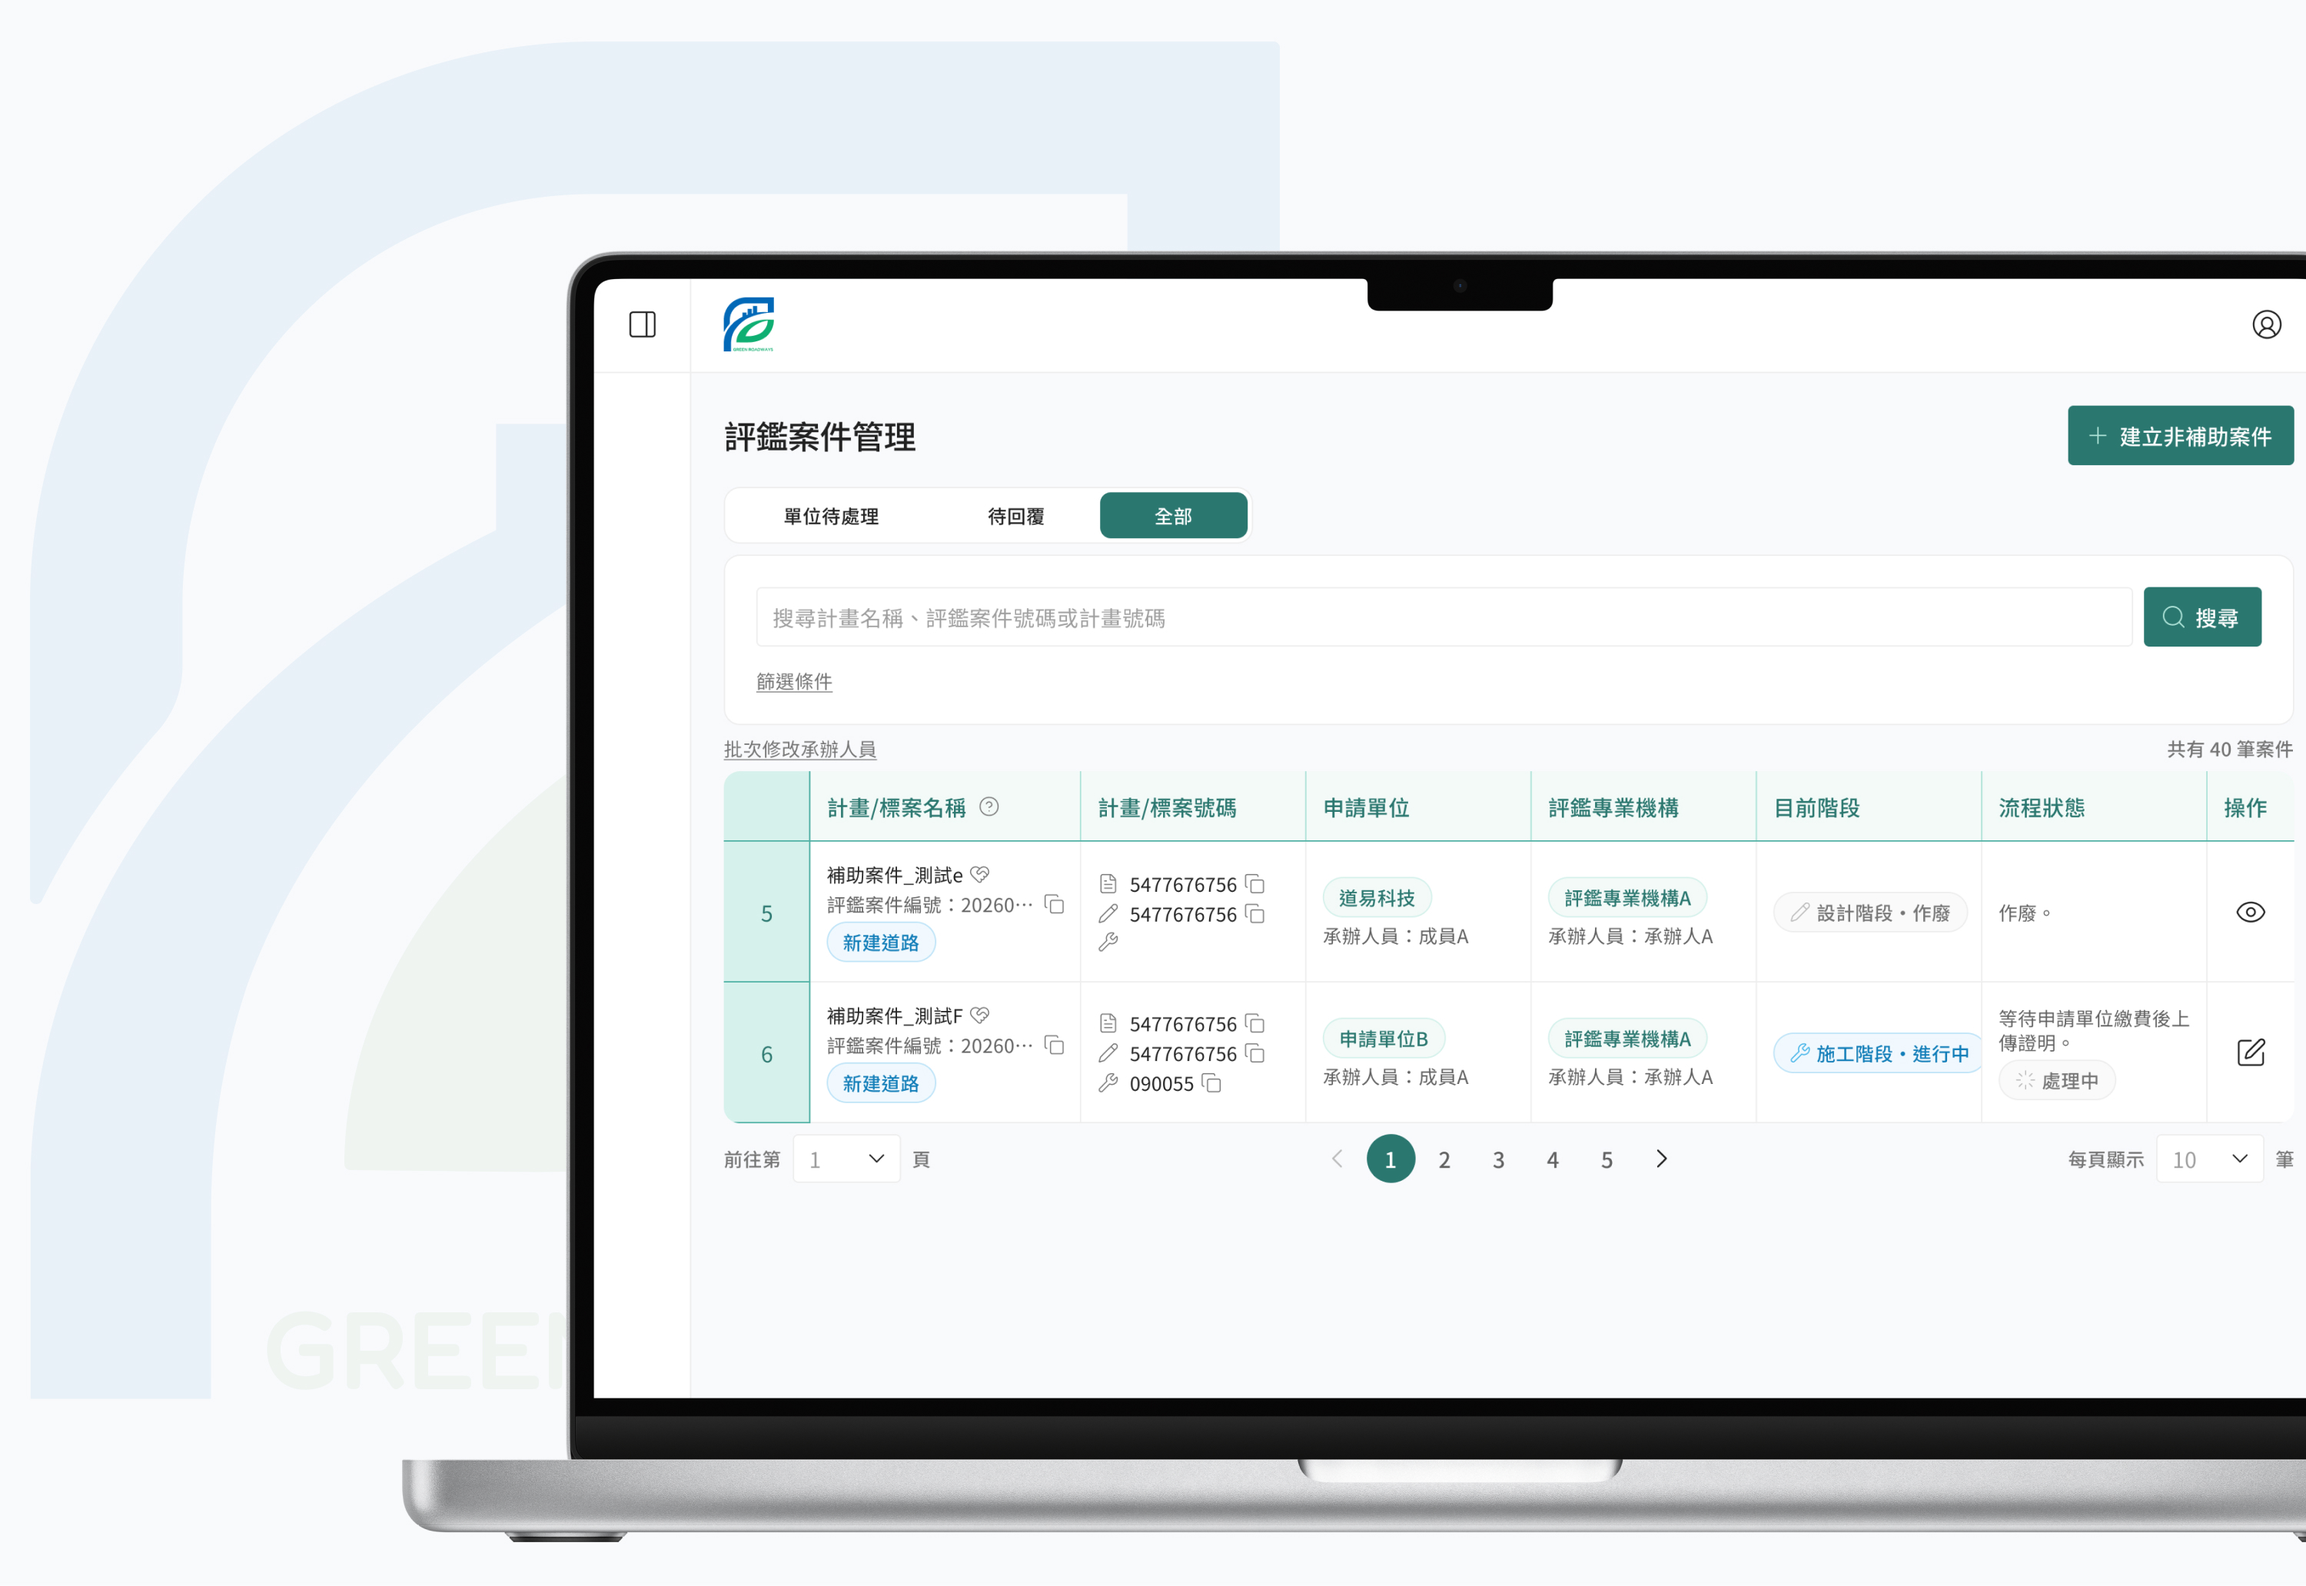
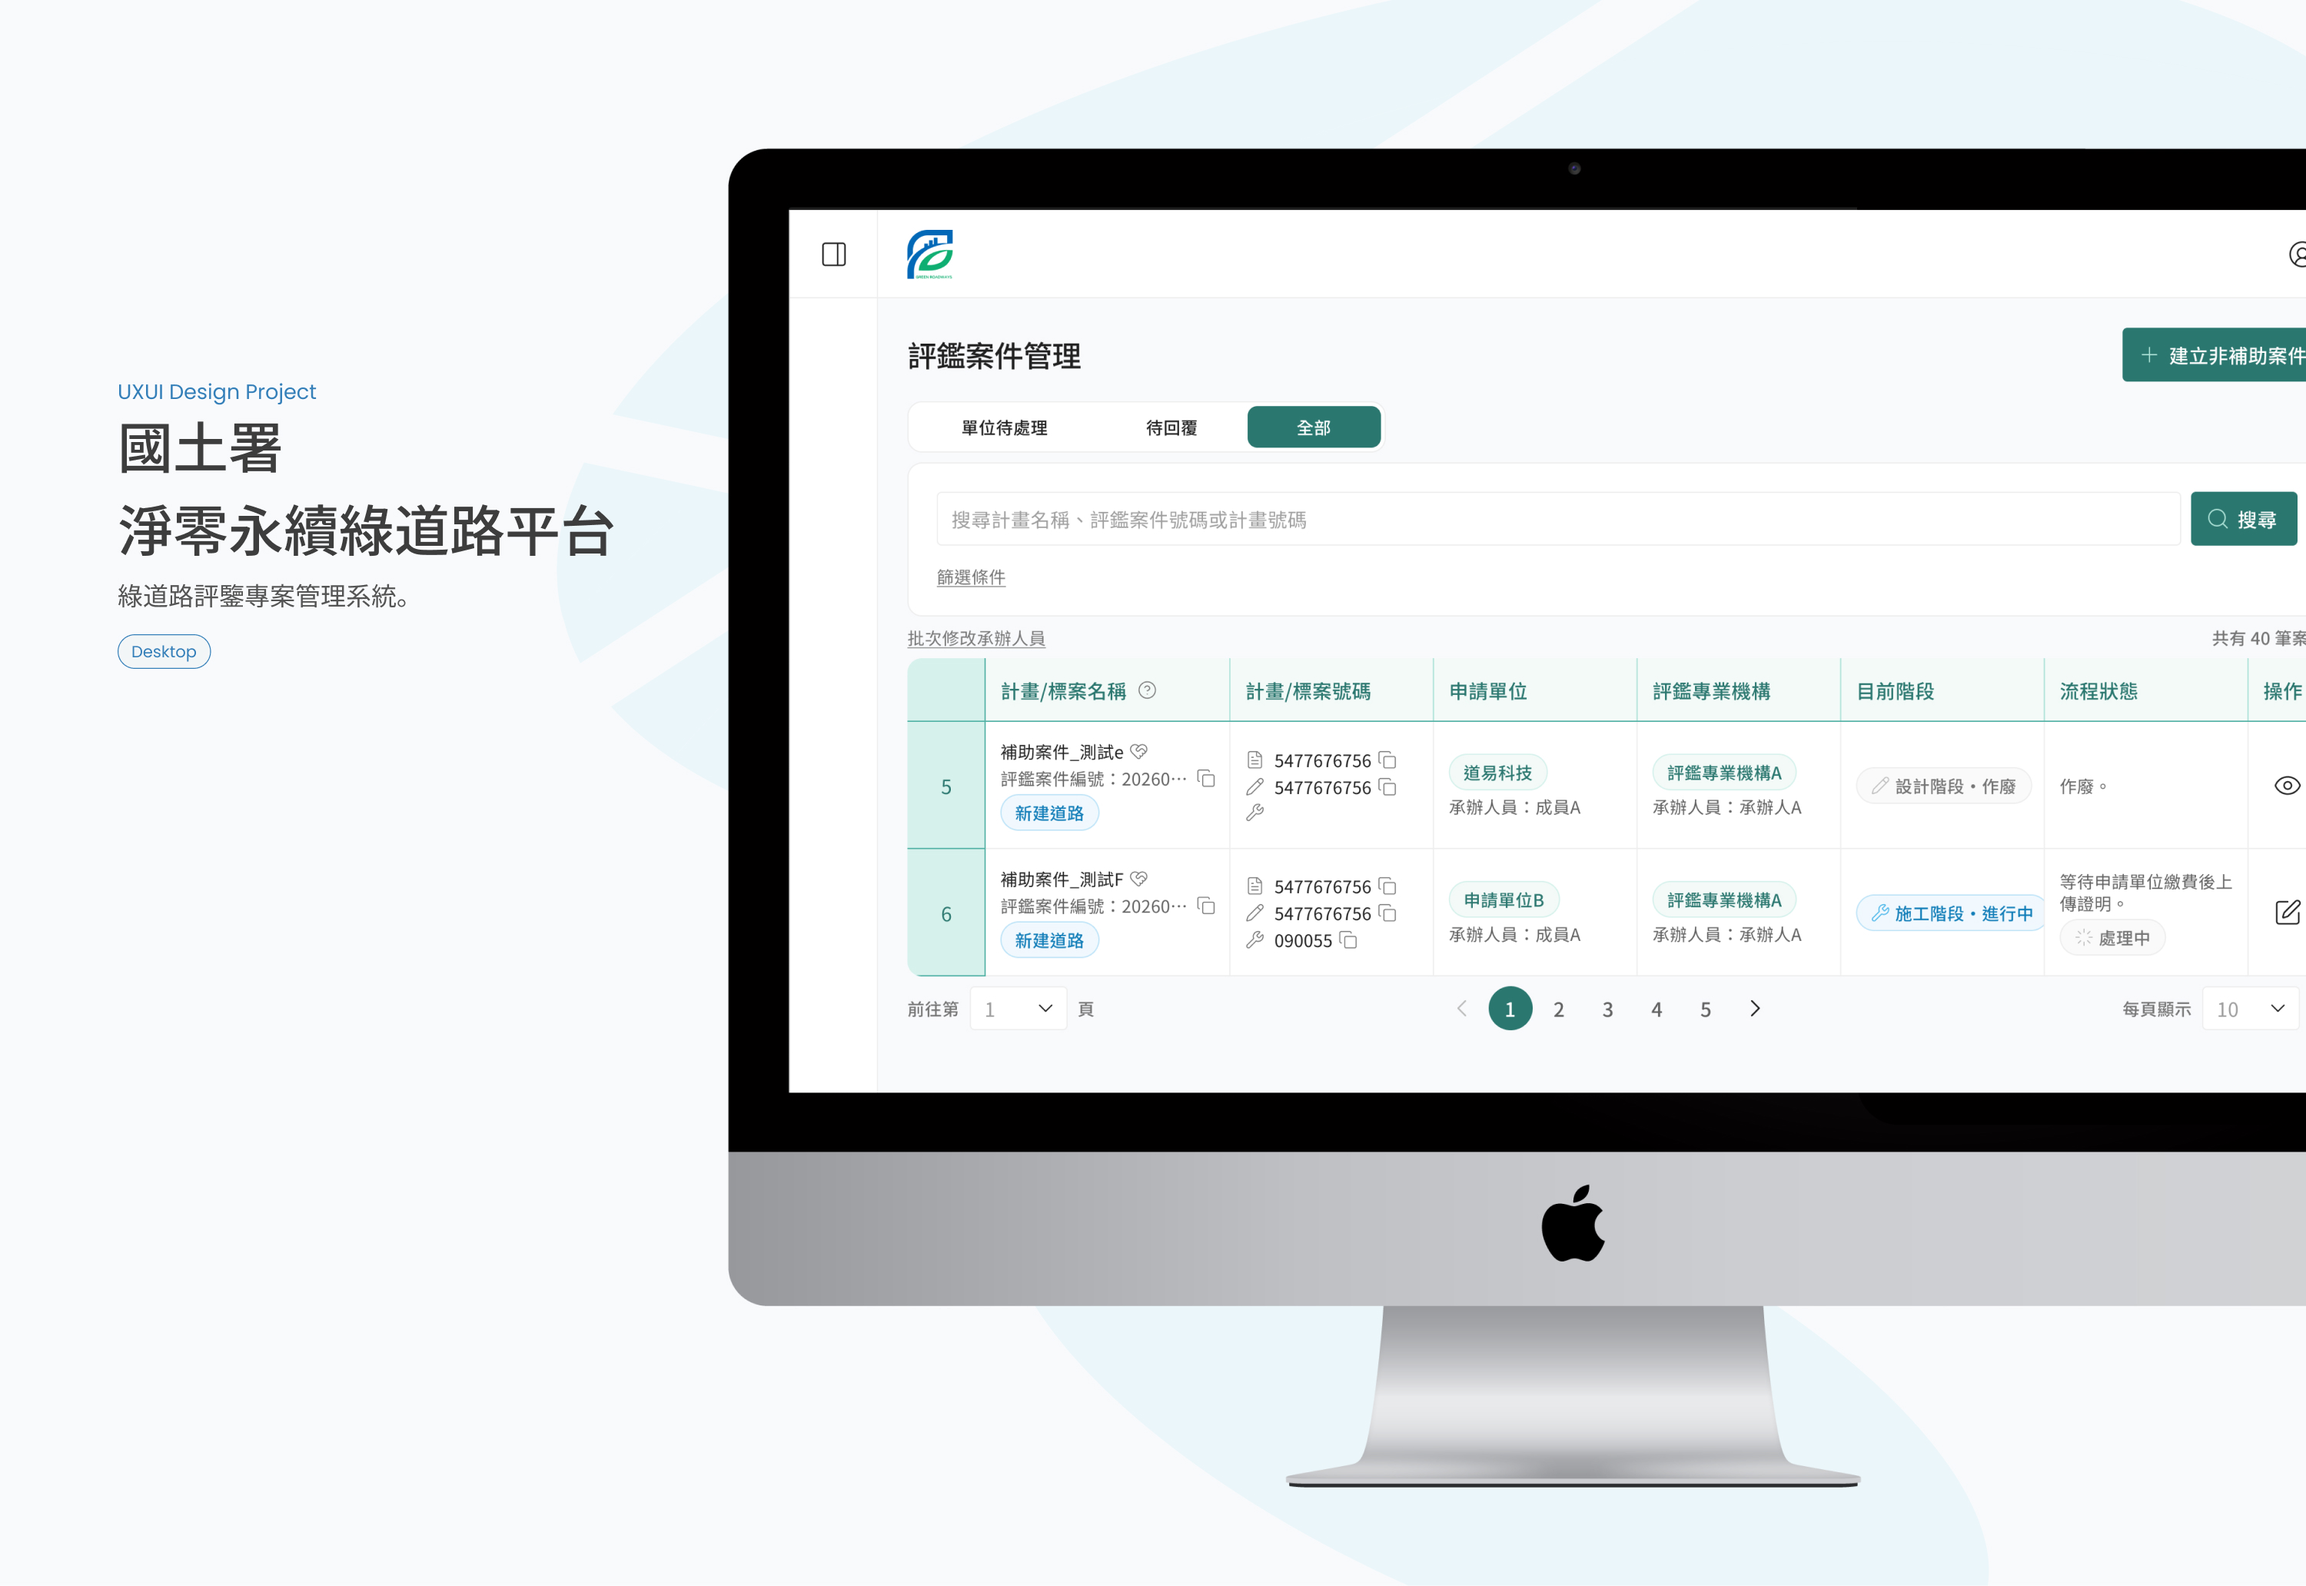
Greenroad: refresh cover thumbnail from Egreenroad-00

diff --git a/uiux.html b/uiux.html
@@ -10,7 +10,7 @@
 <link rel="preconnect" href="https://fonts.googleapis.com">
 <link rel="preconnect" href="https://fonts.gstatic.com" crossorigin>
 <link href="https://fonts.googleapis.com/css2?family=Poppins:wght@300;400;500;600&family=Noto+Sans+TC:wght@300;400;500;600&display=swap" rel="stylesheet">
-<link rel="stylesheet" href="assets/styles.css?v=74">
+<link rel="stylesheet" href="assets/styles.css?v=75">
 </head>
 <body class="page-theme">
 
@@ -63,7 +63,7 @@
   </a>
 
   <a class="proj-card" href="project-greenroad.html" data-hover>
-    <div class="cover"><img src="./images/greenroad-cover.jpg?v=2" alt="國土署淨零永續綠道路平台"></div>
+    <div class="cover"><img src="./images/greenroad-cover.jpg?v=3" alt="國土署淨零永續綠道路平台"></div>
     <div class="body">
       <div class="meta"><span>資料系統</span></div>
       <h3>國土署淨零永續綠道路平台</h3>
@@ -130,6 +130,6 @@
 <script src="https://cdn.jsdelivr.net/npm/lenis@1.1.13/dist/lenis.min.js"></script>
 <script src="https://cdnjs.cloudflare.com/ajax/libs/gsap/3.12.5/gsap.min.js"></script>
 <script src="https://cdnjs.cloudflare.com/ajax/libs/gsap/3.12.5/ScrollTrigger.min.js"></script>
-<script src="assets/main.js?v=74"></script>
+<script src="assets/main.js?v=75"></script>
 </body>
 </html>

diff --git a/index.html b/index.html
@@ -10,7 +10,7 @@
 <link rel="preconnect" href="https://fonts.googleapis.com">
 <link rel="preconnect" href="https://fonts.gstatic.com" crossorigin>
 <link href="https://fonts.googleapis.com/css2?family=Poppins:wght@300;400;500;600&family=Noto+Sans+TC:wght@300;400;500;600&display=swap" rel="stylesheet">
-<link rel="stylesheet" href="assets/styles.css?v=74">
+<link rel="stylesheet" href="assets/styles.css?v=75">
 <style id="home-tweak">.hero,.hero-bg,.hero::after{display:none!important}</style>
 </head>
 <body>
@@ -151,6 +151,6 @@
 <script src="https://cdn.jsdelivr.net/npm/lenis@1.1.13/dist/lenis.min.js"></script>
 <script src="https://cdnjs.cloudflare.com/ajax/libs/gsap/3.12.5/gsap.min.js"></script>
 <script src="https://cdnjs.cloudflare.com/ajax/libs/gsap/3.12.5/ScrollTrigger.min.js"></script>
-<script src="assets/main.js?v=74"></script>
+<script src="assets/main.js?v=75"></script>
 </body>
 </html>

diff --git a/project.html b/project.html
@@ -10,7 +10,7 @@
 <link rel="preconnect" href="https://fonts.googleapis.com">
 <link rel="preconnect" href="https://fonts.gstatic.com" crossorigin>
 <link href="https://fonts.googleapis.com/css2?family=Poppins:wght@300;400;500;600&family=Noto+Sans+TC:wght@300;400;500;600&display=swap" rel="stylesheet">
-<link rel="stylesheet" href="assets/styles.css?v=74">
+<link rel="stylesheet" href="assets/styles.css?v=75">
 </head>
 <body class="page-theme proj-wide">
 
@@ -124,6 +124,6 @@
 <script src="https://cdn.jsdelivr.net/npm/lenis@1.1.13/dist/lenis.min.js"></script>
 <script src="https://cdnjs.cloudflare.com/ajax/libs/gsap/3.12.5/gsap.min.js"></script>
 <script src="https://cdnjs.cloudflare.com/ajax/libs/gsap/3.12.5/ScrollTrigger.min.js"></script>
-<script src="assets/main.js?v=74"></script>
+<script src="assets/main.js?v=75"></script>
 </body>
 </html>

diff --git a/project-easycycle.html b/project-easycycle.html
@@ -10,7 +10,7 @@
 <link rel="preconnect" href="https://fonts.googleapis.com">
 <link rel="preconnect" href="https://fonts.gstatic.com" crossorigin>
 <link href="https://fonts.googleapis.com/css2?family=Poppins:wght@300;400;500;600&family=Noto+Sans+TC:wght@300;400;500;600&display=swap" rel="stylesheet">
-<link rel="stylesheet" href="assets/styles.css?v=74">
+<link rel="stylesheet" href="assets/styles.css?v=75">
 </head>
 <body class="page-theme proj-wide">
 
@@ -75,6 +75,6 @@
 <script src="https://cdn.jsdelivr.net/npm/lenis@1.1.13/dist/lenis.min.js"></script>
 <script src="https://cdnjs.cloudflare.com/ajax/libs/gsap/3.12.5/gsap.min.js"></script>
 <script src="https://cdnjs.cloudflare.com/ajax/libs/gsap/3.12.5/ScrollTrigger.min.js"></script>
-<script src="assets/main.js?v=74"></script>
+<script src="assets/main.js?v=75"></script>
 </body>
 </html>

diff --git a/project-easycycle2.html b/project-easycycle2.html
@@ -10,7 +10,7 @@
 <link rel="preconnect" href="https://fonts.googleapis.com">
 <link rel="preconnect" href="https://fonts.gstatic.com" crossorigin>
 <link href="https://fonts.googleapis.com/css2?family=Poppins:wght@300;400;500;600&family=Noto+Sans+TC:wght@300;400;500;600&display=swap" rel="stylesheet">
-<link rel="stylesheet" href="assets/styles.css?v=74">
+<link rel="stylesheet" href="assets/styles.css?v=75">
 </head>
 <body class="page-theme proj-wide">
 
@@ -69,6 +69,6 @@
 <script src="https://cdn.jsdelivr.net/npm/lenis@1.1.13/dist/lenis.min.js"></script>
 <script src="https://cdnjs.cloudflare.com/ajax/libs/gsap/3.12.5/gsap.min.js"></script>
 <script src="https://cdnjs.cloudflare.com/ajax/libs/gsap/3.12.5/ScrollTrigger.min.js"></script>
-<script src="assets/main.js?v=74"></script>
+<script src="assets/main.js?v=75"></script>
 </body>
 </html>

diff --git a/project-greenroad.html b/project-greenroad.html
@@ -10,7 +10,7 @@
 <link rel="preconnect" href="https://fonts.googleapis.com">
 <link rel="preconnect" href="https://fonts.gstatic.com" crossorigin>
 <link href="https://fonts.googleapis.com/css2?family=Poppins:wght@300;400;500;600&family=Noto+Sans+TC:wght@300;400;500;600&display=swap" rel="stylesheet">
-<link rel="stylesheet" href="assets/styles.css?v=74">
+<link rel="stylesheet" href="assets/styles.css?v=75">
 </head>
 <body class="page-theme proj-wide">
 
@@ -69,6 +69,6 @@
 <script src="https://cdn.jsdelivr.net/npm/lenis@1.1.13/dist/lenis.min.js"></script>
 <script src="https://cdnjs.cloudflare.com/ajax/libs/gsap/3.12.5/gsap.min.js"></script>
 <script src="https://cdnjs.cloudflare.com/ajax/libs/gsap/3.12.5/ScrollTrigger.min.js"></script>
-<script src="assets/main.js?v=74"></script>
+<script src="assets/main.js?v=75"></script>
 </body>
 </html>

diff --git a/project-nmtl.html b/project-nmtl.html
@@ -10,7 +10,7 @@
 <link rel="preconnect" href="https://fonts.googleapis.com">
 <link rel="preconnect" href="https://fonts.gstatic.com" crossorigin>
 <link href="https://fonts.googleapis.com/css2?family=Poppins:wght@300;400;500;600&family=Noto+Sans+TC:wght@300;400;500;600&display=swap" rel="stylesheet">
-<link rel="stylesheet" href="assets/styles.css?v=74">
+<link rel="stylesheet" href="assets/styles.css?v=75">
 </head>
 <body class="page-theme proj-wide">
 
@@ -69,6 +69,6 @@
 <script src="https://cdn.jsdelivr.net/npm/lenis@1.1.13/dist/lenis.min.js"></script>
 <script src="https://cdnjs.cloudflare.com/ajax/libs/gsap/3.12.5/gsap.min.js"></script>
 <script src="https://cdnjs.cloudflare.com/ajax/libs/gsap/3.12.5/ScrollTrigger.min.js"></script>
-<script src="assets/main.js?v=74"></script>
+<script src="assets/main.js?v=75"></script>
 </body>
 </html>

diff --git a/motion.html b/motion.html
@@ -10,7 +10,7 @@
 <link rel="preconnect" href="https://fonts.googleapis.com">
 <link rel="preconnect" href="https://fonts.gstatic.com" crossorigin>
 <link href="https://fonts.googleapis.com/css2?family=Poppins:wght@300;400;500;600&family=Noto+Sans+TC:wght@300;400;500;600&display=swap" rel="stylesheet">
-<link rel="stylesheet" href="assets/styles.css?v=74">
+<link rel="stylesheet" href="assets/styles.css?v=75">
 </head>
 <body class="page-theme">
 
@@ -105,6 +105,6 @@
 <script src="https://cdn.jsdelivr.net/npm/lenis@1.1.13/dist/lenis.min.js"></script>
 <script src="https://cdnjs.cloudflare.com/ajax/libs/gsap/3.12.5/gsap.min.js"></script>
 <script src="https://cdnjs.cloudflare.com/ajax/libs/gsap/3.12.5/ScrollTrigger.min.js"></script>
-<script src="assets/main.js?v=74"></script>
+<script src="assets/main.js?v=75"></script>
 </body>
 </html>
